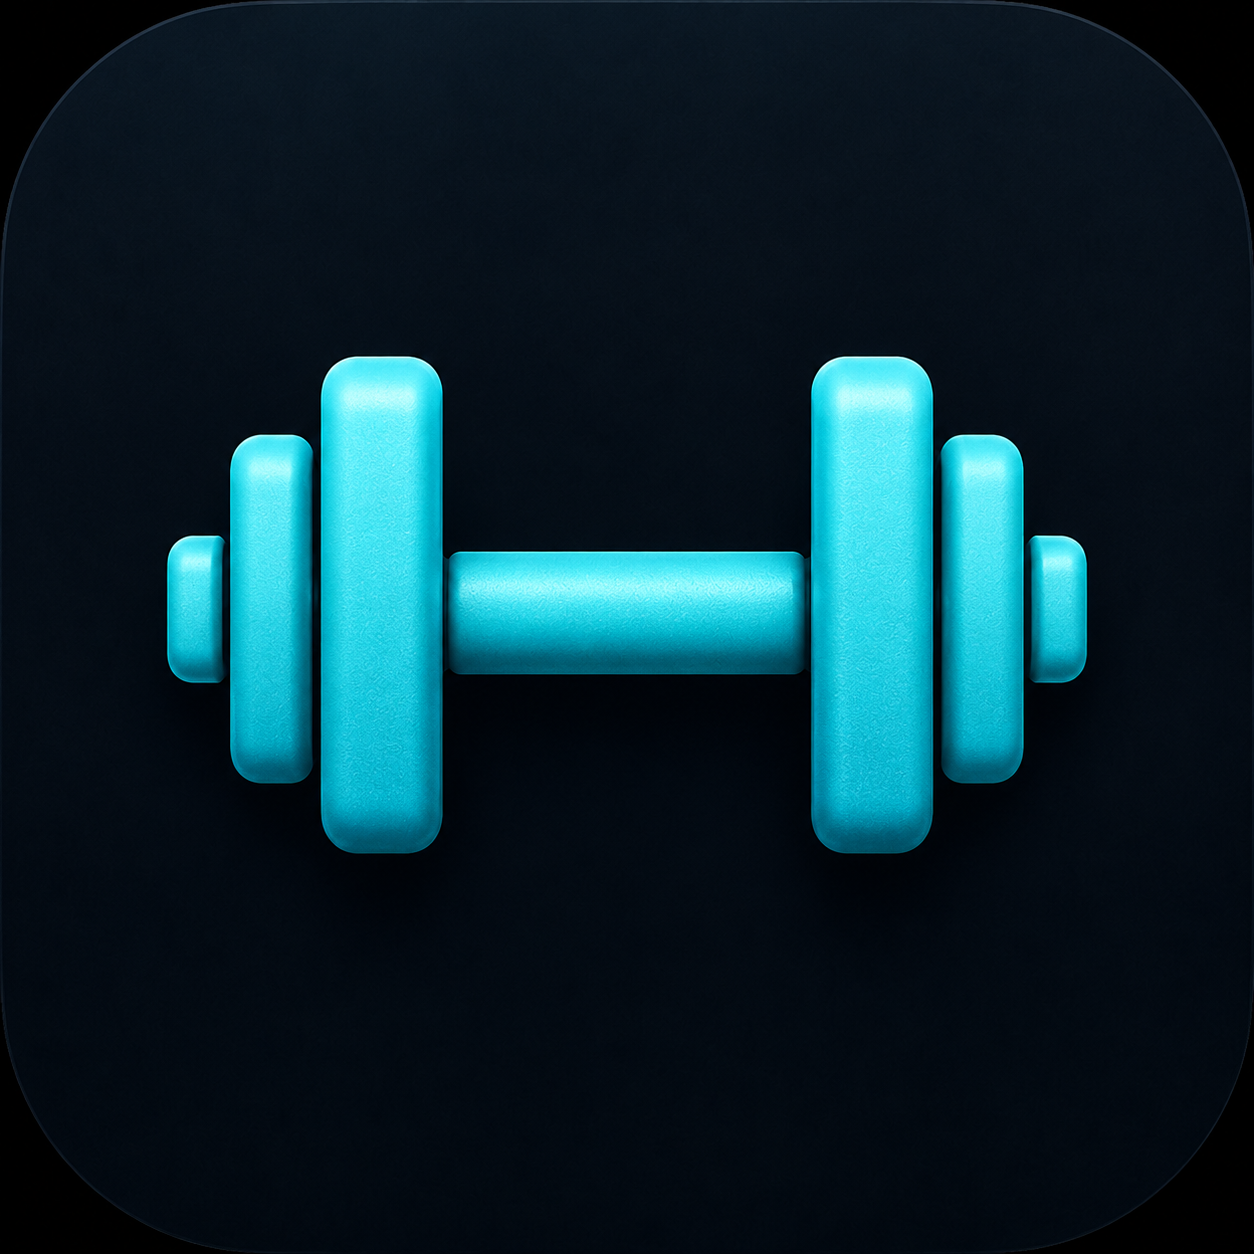
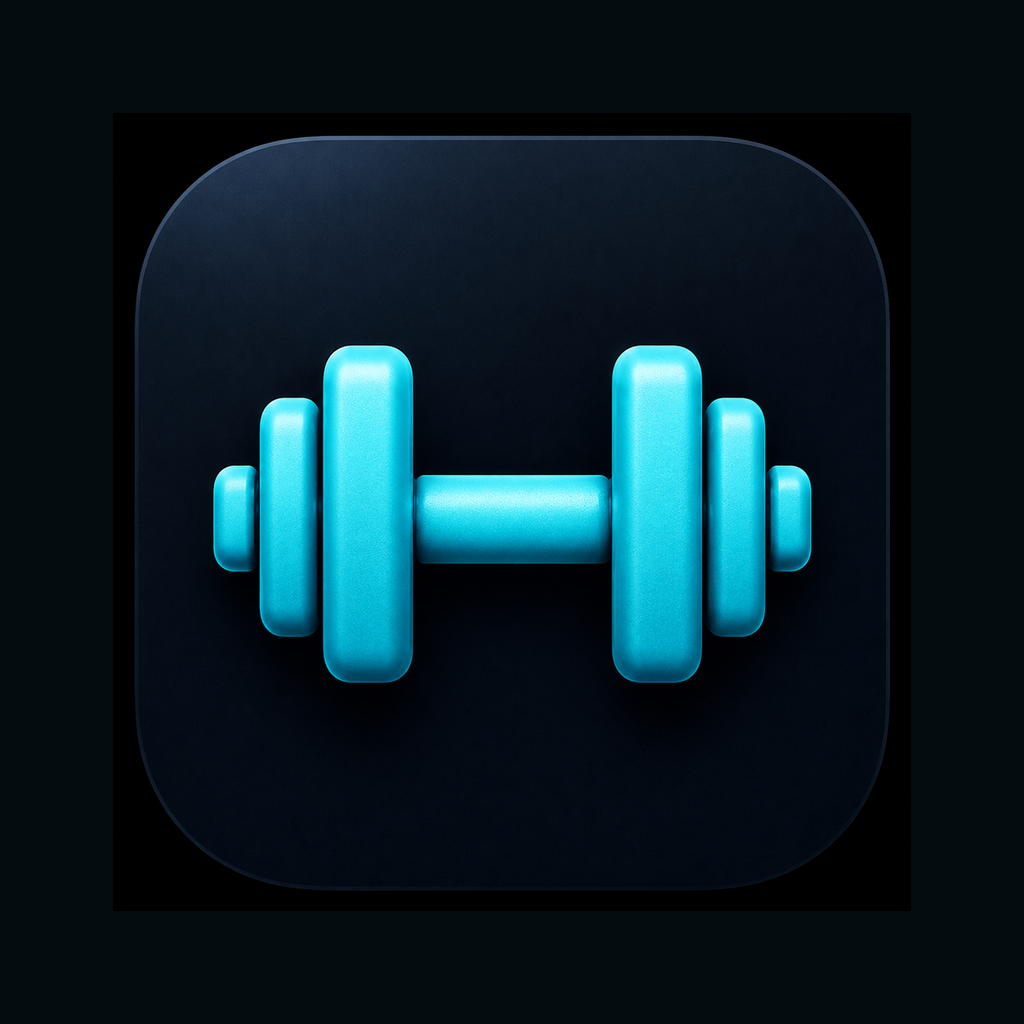
Final

diff --git a/src/db/schema.ts b/src/db/schema.ts
@@ -276,7 +276,7 @@ export const DEFAULT_EXERCISES: ExerciseRecord[] = [
     "Single-Arm Landmine Punch Press",
     "Chest",
     "Strength: Weight, Reps",
-    "Yes",
+    "No",
   ),
 
   // Legs
@@ -452,7 +452,7 @@ function createSeedExercise(
   name: string,
   category: string,
   exerciseType: string = "Strength: Weight, Reps",
-  singleArm: string = "Default (Yes)",
+  singleArm: string = "No",
 ): ExerciseRecord {
   const createdAt = "2026-05-18T00:00:00.000Z";
 